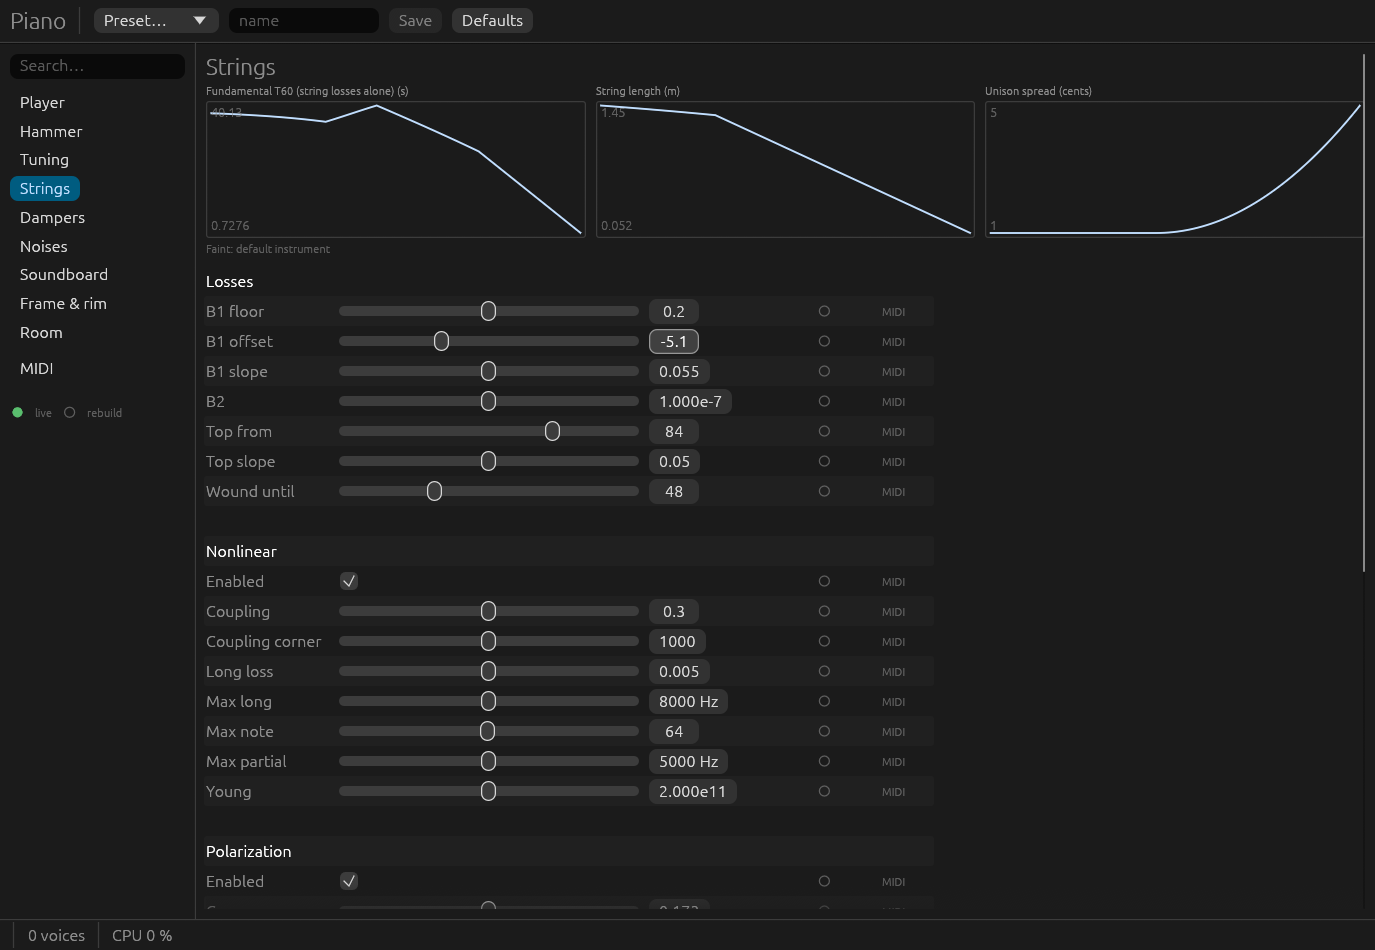
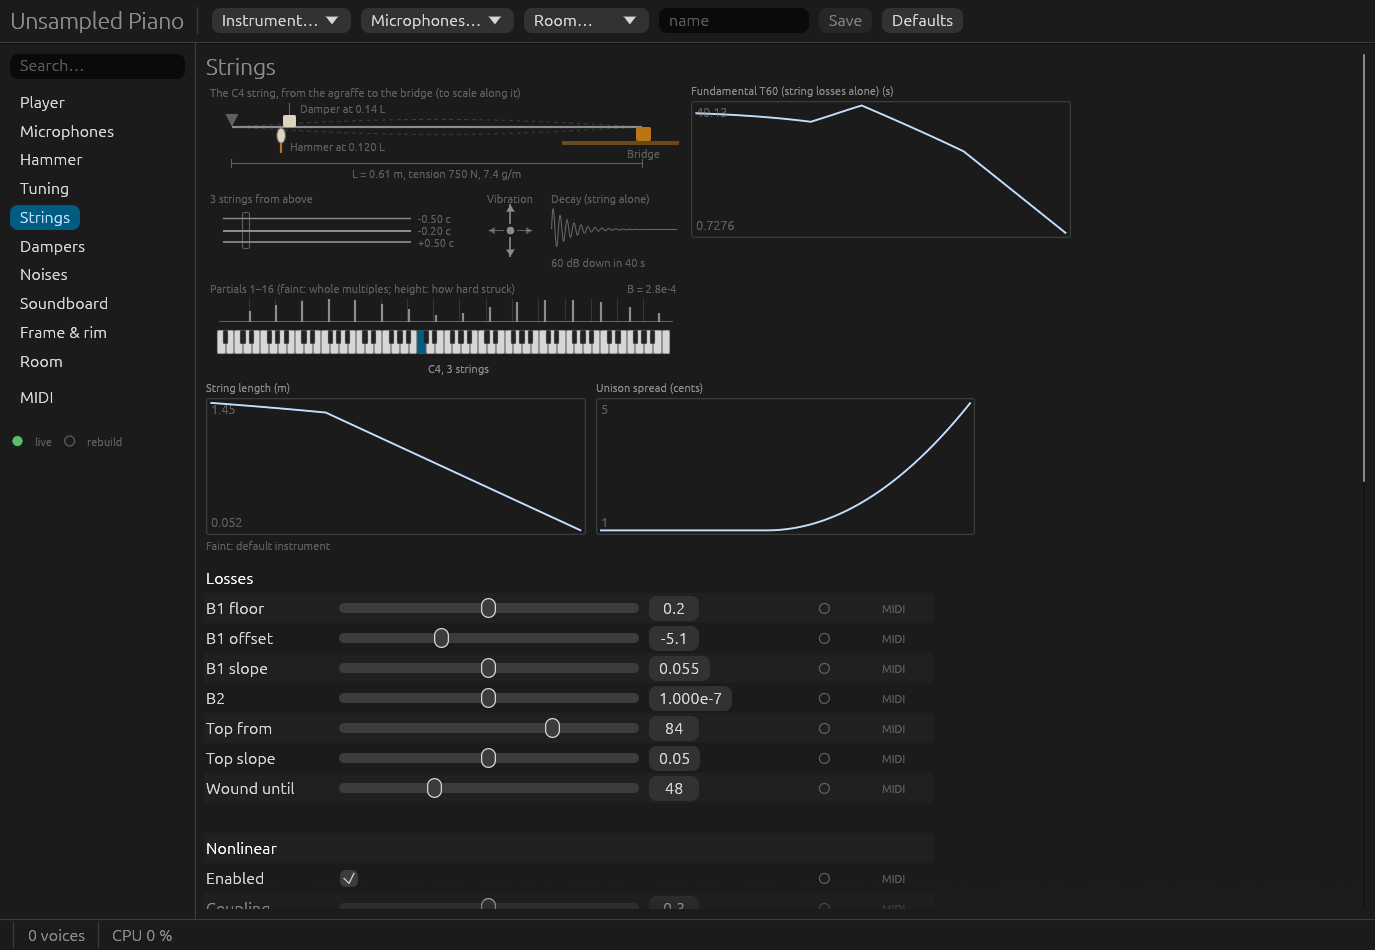
Interface title: Unsampled Piano (and a fresh README screenshot)

diff --git a/crates/piano-ui/examples/demo.rs b/crates/piano-ui/examples/demo.rs
@@ -39,7 +39,7 @@ fn main() -> eframe::Result {
         ui.show_help(&path);
     }
     let options = eframe::NativeOptions {
-        viewport: egui::ViewportBuilder::default().with_inner_size([1100.0, 760.0]).with_title("Piano"),
+        viewport: egui::ViewportBuilder::default().with_inner_size([1100.0, 760.0]).with_title("Unsampled Piano"),
         ..Default::default()
     };
     let model = match std::env::var("PIANO_UI_LOAD") {

diff --git a/crates/piano-ui/src/lib.rs b/crates/piano-ui/src/lib.rs
@@ -137,7 +137,7 @@ impl PianoUi {
         egui::Panel::top("piano-top").show(ui, |ui| {
             ui.add_space(4.0);
             ui.horizontal(|ui| {
-                ui.heading("Piano");
+                ui.heading("Unsampled Piano");
                 ui.separator();
                 self.preset_bar(ui, control, &model);
             });

diff --git a/README.md b/README.md
@@ -2,7 +2,7 @@
 
 Physically modelled virtual piano, real-time from MIDI, in Rust. No samples are used to produce the sound (recordings are used only for analysis and calibration).
 
-![The interface (`unsampled-piano --ui`), Strings page: per-key losses, string length and unison spread over the keyboard](docs/img/interface.png)
+![The interface (`unsampled-piano --ui`), Strings page: the C4 string, its partials, and per-key losses, string length and unison spread over the keyboard](docs/img/interface.png)
 
 Physical chain: felt hammer (passive quadratised contact) → 1 to 3 stiff strings per key, two polarisations, coupled at the bridge (Weinreich modes) → modal soundboard (clamped orthotropic plate) → Rayleigh radiation to two microphones (optional lid) → room (image-source reflections, reverberation). The cast-iron frame (excited at the agraffes) and the rim (excited by the soundboard edges) also radiate. On top of this come the dampers, the pedals (half-pedal, sostenuto, una corda), sympathetic resonance through the bridge and impulse-driven mechanical noises.
 
